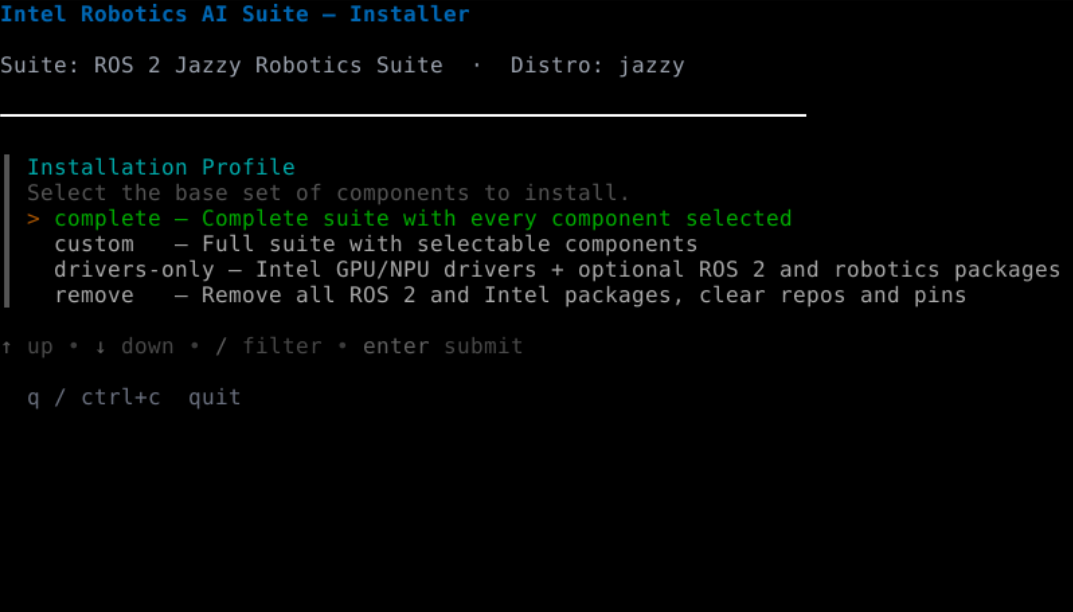
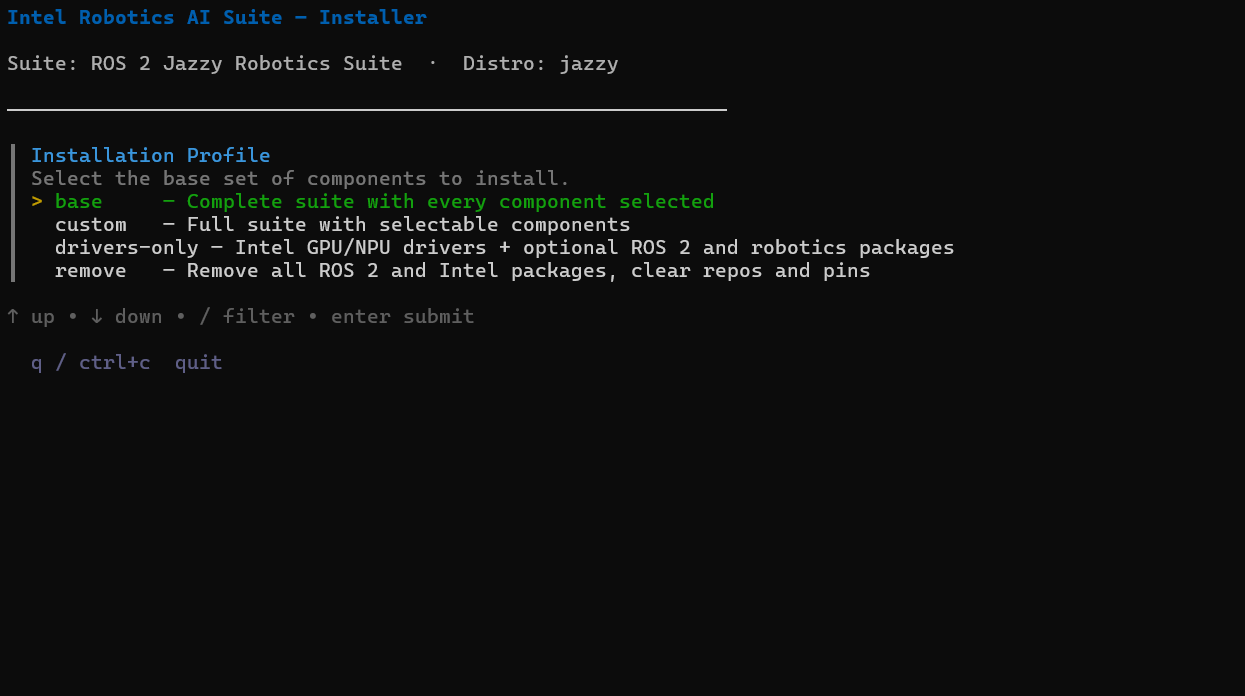
Add RT-Linux option to installer.

diff --git a/src/workshops/docs/humble-and-interop.md b/src/workshops/docs/humble-and-interop.md
@@ -57,7 +57,7 @@ Messages with identical definitions interoperate. Where a type grew fields betwe
 
 ## ROS 2 from the host
 
-Workshops share the `workshopbr0` LXD bridge with the host, and ROS 2 discovery (Fast DDS, `ROS_AUTOMATIC_DISCOVERY_RANGE=SUBNET`) reaches across it. A host with ROS 2 Jazzy installed (for example with the same `robotics-installer --profile complete`) can list, echo and visualize topics from a running workshop action.
+Workshops share the `workshopbr0` LXD bridge with the host, and ROS 2 discovery (Fast DDS, `ROS_AUTOMATIC_DISCOVERY_RANGE=SUBNET`) reaches across it. A host with ROS 2 Jazzy installed (for example with the same `robotics-installer --profile base`) can list, echo and visualize topics from a running workshop action.
 
 The ROS domain ID must match on both sides:
 

diff --git a/docs/user-guide/platform_foundation/getting_started/express.md b/docs/user-guide/platform_foundation/getting_started/express.md
@@ -39,7 +39,7 @@ Visit the Canonical Ubuntu website to see the detailed installation instructions
 
    ![Installer](../../images/install/installer_1.png)
 
-4. Select an installation profile to install. The `complete` profile is recommended for most users.
+4. Select an installation profile to install. The `base` profile is recommended for most users.
 
    ![Installer](../../images/install/installer_2.png)
 
